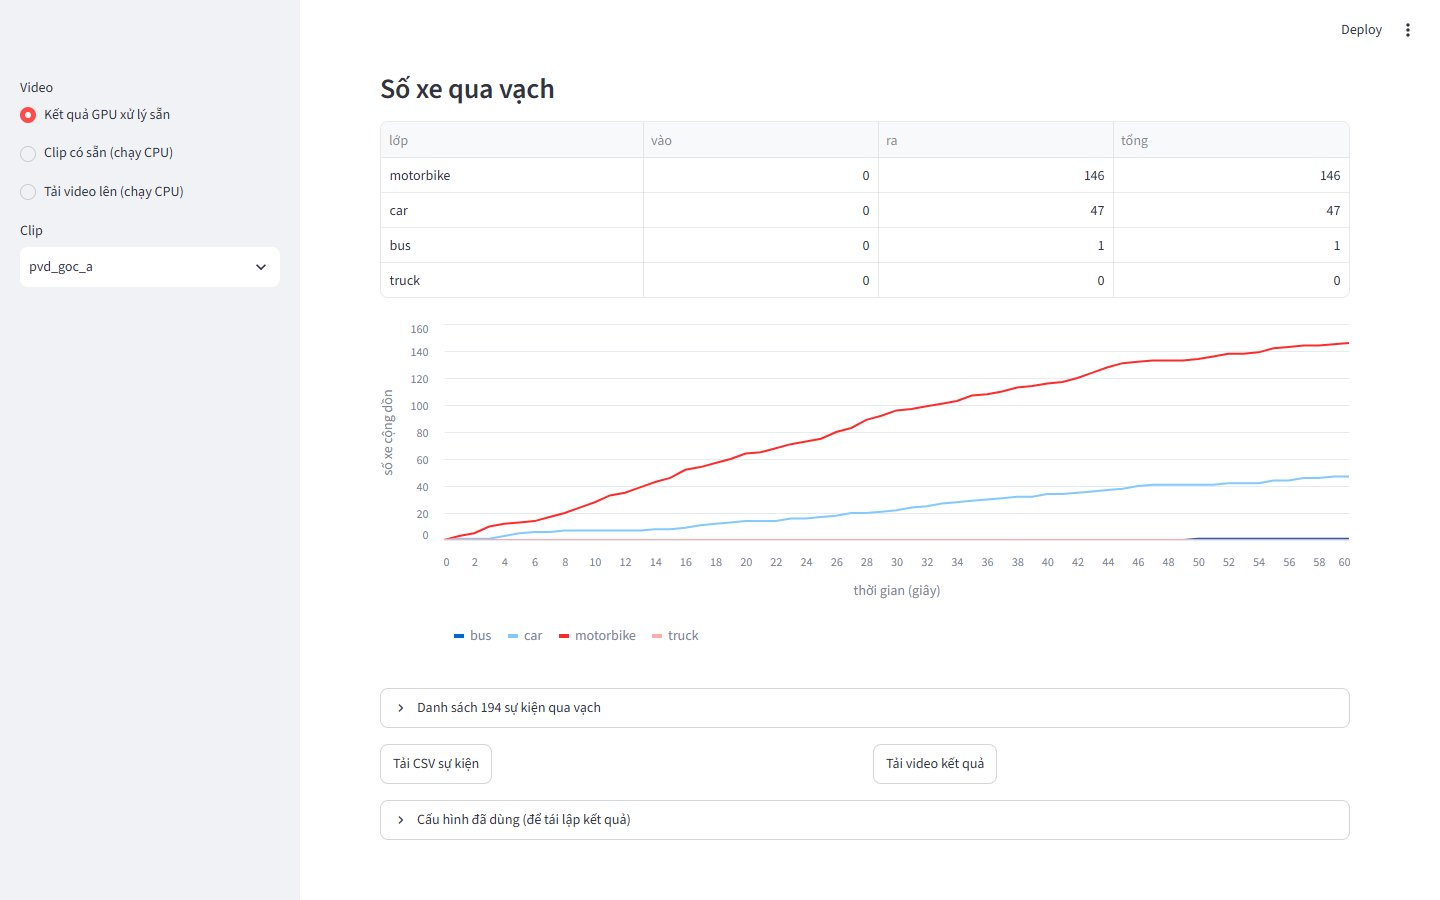
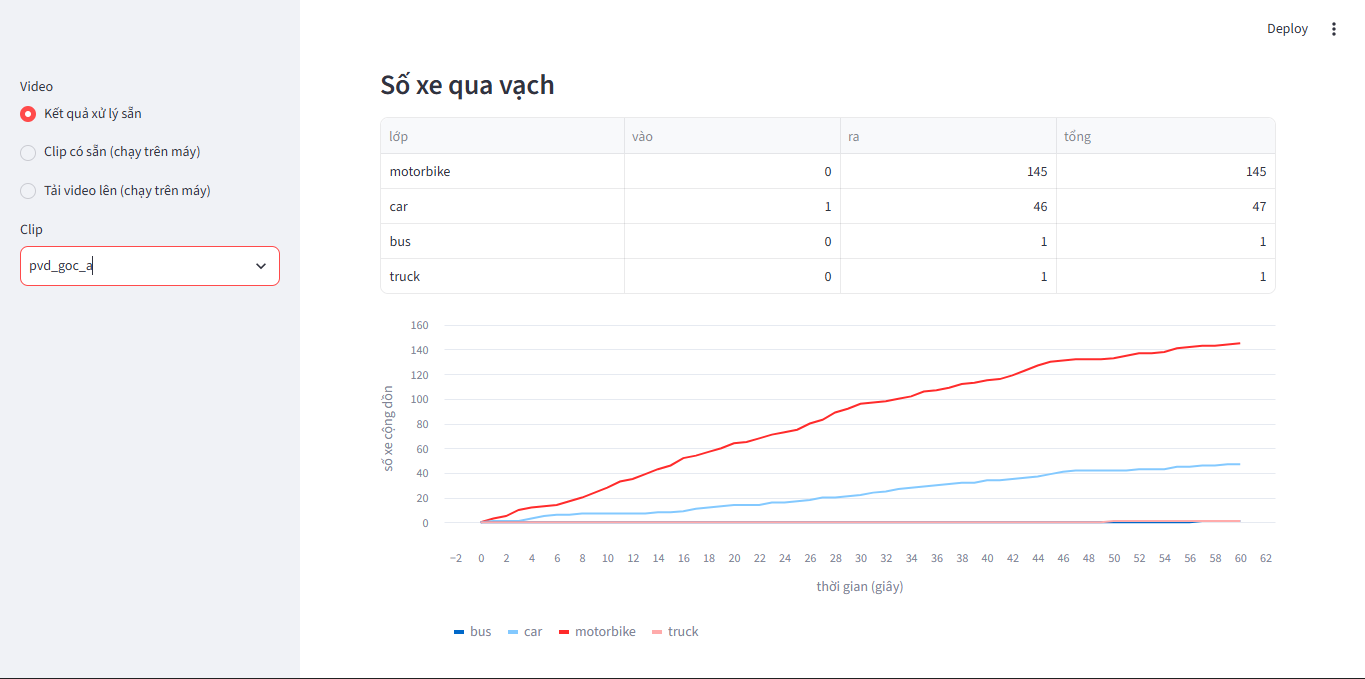
Video demo YOLO26s-v6 xử lý sẵn trên máy; báo cáo mục web demo + ảnh demo/ảnh app mới
- Mục 4.9: video demo của mô hình chính (2.6–2.8 frame/s trên CPU, số lượt qua vạch từng clip, hầm
  chui 2/3 trùng số đã chấm với người đếm tay); xe cứu hộ vẫn bị đếm thừa thành buýt; xe buýt hầm chui 3
  không còn đổi nhãn sau khi đếm với YOLO26s-v6 (405/427 lần là buýt), khoá lớp hiển thị vẫn giữ
- Ảnh frame demo tạo lại từ outputs/demo_precomputed (make_figures.DEMO_DIR); ảnh chụp app mới
- tong_hop_bao_cao.md: số liệu video demo

diff --git a/report/overleaf/chapters/modau.tex b/report/overleaf/chapters/modau.tex
@@ -94,7 +94,7 @@ HOTA, MOTA, IDF1 theo chuẩn MOTChallenge.
         Kaggle; v5 và YOLO26s (dữ liệu v5) được huấn luyện thêm hai lần, v6 và YOLO26s-v6 thêm một lần với seed khác.
   \item Theo dõi: so sánh ba thuật toán theo dõi, chỉnh tham số trên hai tập phát triển (VnTraffic và một clip Phạm Văn
         Đồng gán nhãn tay), chấm trên một clip Phạm Văn Đồng khác gán nhãn tay bằng CVAT.
-  \item Ứng dụng: pipeline đếm xe qua vạch, web demo Streamlit, video demo xử lý trên GPU.
+  \item Ứng dụng: pipeline đếm xe qua vạch, web demo Streamlit, video demo xử lý sẵn bằng mô hình chính.
   \item Đánh giá qua bốn thí nghiệm: E1 (độ chính xác phát hiện), E2 (tốc độ), E3 (theo dõi và sai số đếm), E4 (phân
         tích lỗi).
 \end{enumerate}

diff --git a/report/make_figures.py b/report/make_figures.py
@@ -21,7 +21,7 @@ from matplotlib.axes import Axes  # noqa: E402
 OUT = Path("report/overleaf/figures")
 KAGGLE_YOLO = Path("outputs/kaggle/vn-vehicles-yolo26-train")
 RTDETR_EPOCHS = Path("outputs/kaggle/vn-vehicles-rtdetrv2-train/rtdetrv2_r18_v5_e100_960_epochs.csv")
-DEMO_DIR = Path("outputs/kaggle/vtrack-demo-gpu/demo")
+DEMO_DIR = Path("outputs/demo_precomputed")  # video demo của mô hình chính, tạo bằng scripts/make_demo_videos.sh
 DOCX = Path("docs/DL AND CV.docx")
 
 # Bảng màu danh mục (3 ô đầu đạt kiểm tra mù màu theo mọi cặp) + marker/nét khác nhau để in đen trắng vẫn phân biệt

diff --git a/report/tong_hop_bao_cao.md b/report/tong_hop_bao_cao.md
@@ -737,9 +737,16 @@ v6 (thêm 13/10/2026): Hà Nội 0.921 [0.909–0.932] / khối [0.902–0.937];
 - Tốc độ: chưa đo lại riêng; cùng kiến trúc với YOLO26s v5 (T4 pipeline 43 frame/s; laptop OpenVINO GPU tích hợp 544×960
   9.4 frame/s, INT8 CPU 8.2, PyTorch CPU 3.3).
 - Video demo (15/10/2026, hết quota GPU Kaggle tuần đó): xử lý sẵn trên máy bằng `scripts/make_demo_videos.sh` ->
-  `outputs/demo_precomputed/`, app chế độ "Kết quả xử lý sẵn"; danh sách mô hình của app = YOLO26s-v6 (OpenVINO GPU tích hợp
-  / PyTorch) + bản nhẹ v6 + COCO gốc; bỏ chọn tracker. Ảnh chụp app trong báo cáo (`app_gpu_demo.jpg`, `app_counts.jpg`)
-  cần chụp lại.
+  `outputs/demo_precomputed/` (YOLO26s-v6 PyTorch CPU, bộ lọc box trùng 0.6, lọc tuổi track 3, vạch theo
+  `configs/demo_clips.yaml`), 2.57–2.80 frame/s cả quy trình (~11–12 phút/clip). Lượt qua vạch 60 s: pvd_goc_a 194 (1 vào /
+  193 ra), pvd_goc_b 180, pvd_goc_c 247, hầm chui 1/2/3: 70 / 79 / 96 (clip 2, 3 trùng số đã chấm với người đếm tay).
+  Xe cứu hộ (hầm chui 1, frame 1429 = 47.6 s): VẪN lỗi như bản cũ — box chỉ ôm cabin, gọi "bus", đếm thừa 1; ô tô trên
+  sàn (#243) không bị đếm. Xe buýt hầm chui 3 (track 212, hiển thị #72, đếm "bus" ở frame 236): YOLO26s-v6 gọi buýt 405 /
+  427 lần (conf TB 0.85), tải 10, ô tô 12 -> lớp bỏ phiếu không đổi (kiểm bằng script tạm chạy lại 700 frame đầu, đúng cấu
+  hình demo). App chế độ "Kết quả xử lý sẵn"; danh sách mô hình = YOLO26s-v6 (OpenVINO GPU tích hợp / PyTorch) + bản nhẹ
+  v6 + COCO gốc; bỏ chọn tracker. Ảnh chụp app (`app_gpu_demo.jpg`, `app_counts.jpg`) người làm đồ án đã chụp lại
+  15/10/2026; ảnh frame demo (`demo_pvd_goc_a.jpg`, `demo_ham_chui_dem_1.jpg`, `demo_tow_truck.jpg`) tạo lại từ video mới
+  (`report/make_figures.py`, `DEMO_DIR = outputs/demo_precomputed`).
 - Lưu ý khi bảo vệ: hướng làm YOLO26s-v6 có tham khảo kết quả test của YOLO26s v5 (tốt ban ngày) và v6 (tốt ban đêm);
   quyết định nhận dựa trên dev, test chấm một lần sau đó (đã ghi trong mục "Những lần tập test được dùng lại"). Chỉ 2 seed;
   đêm chênh 0.040 giữa hai lần.
